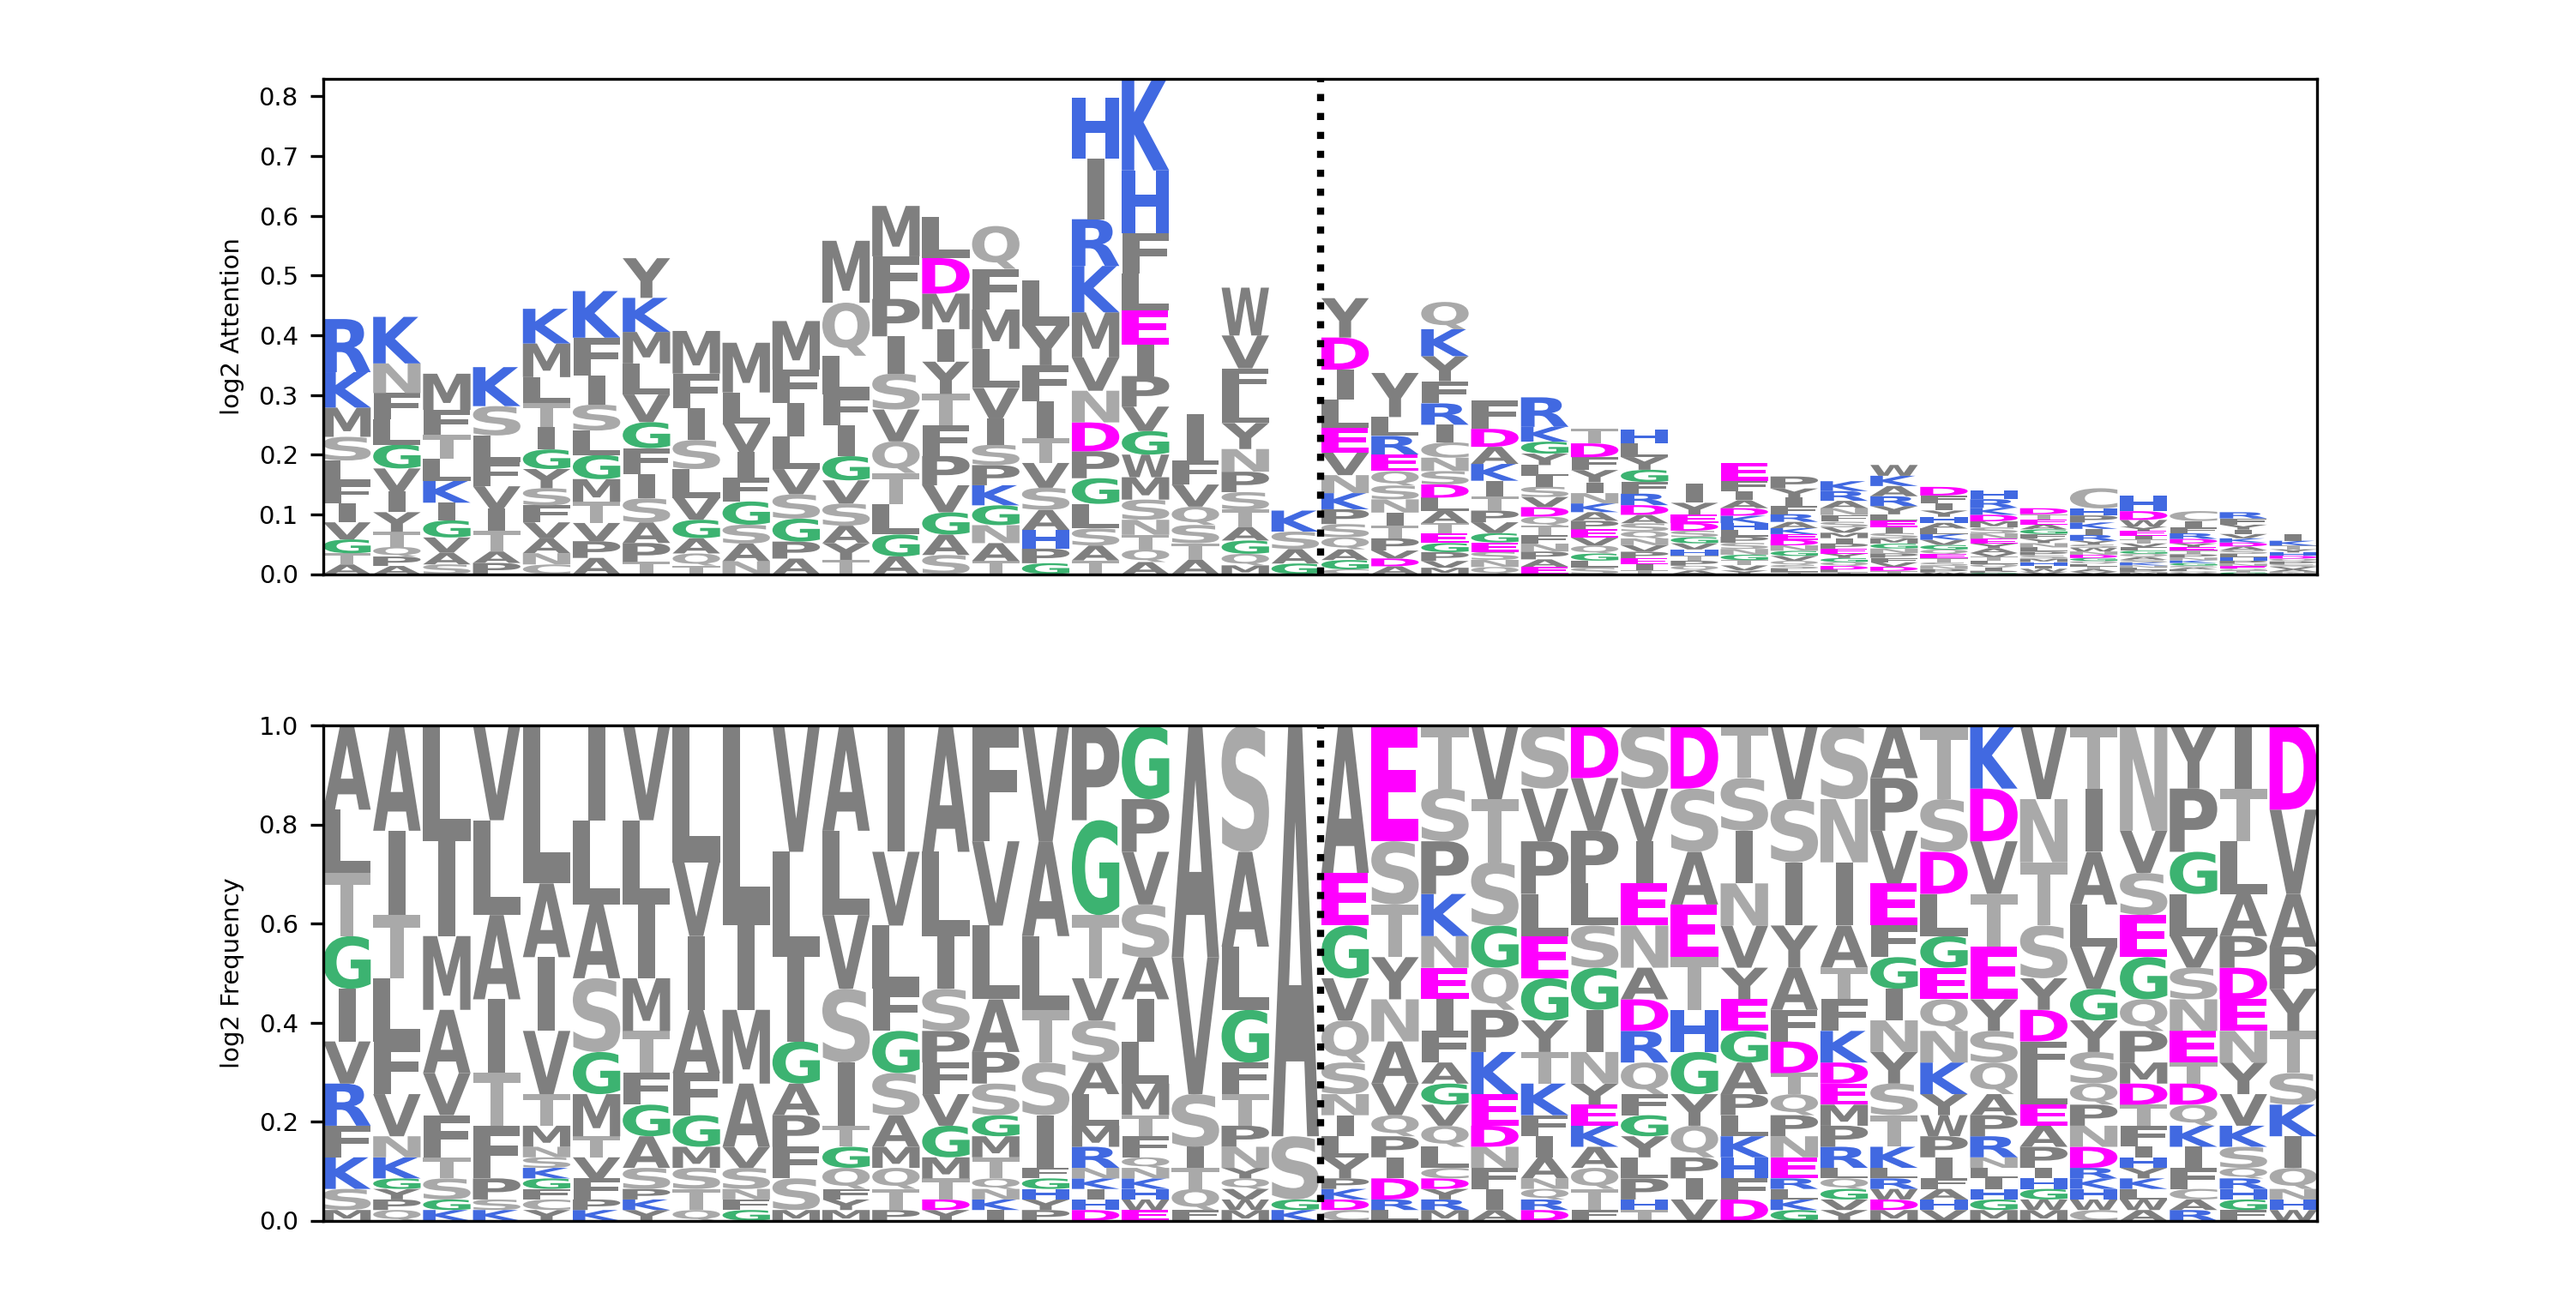
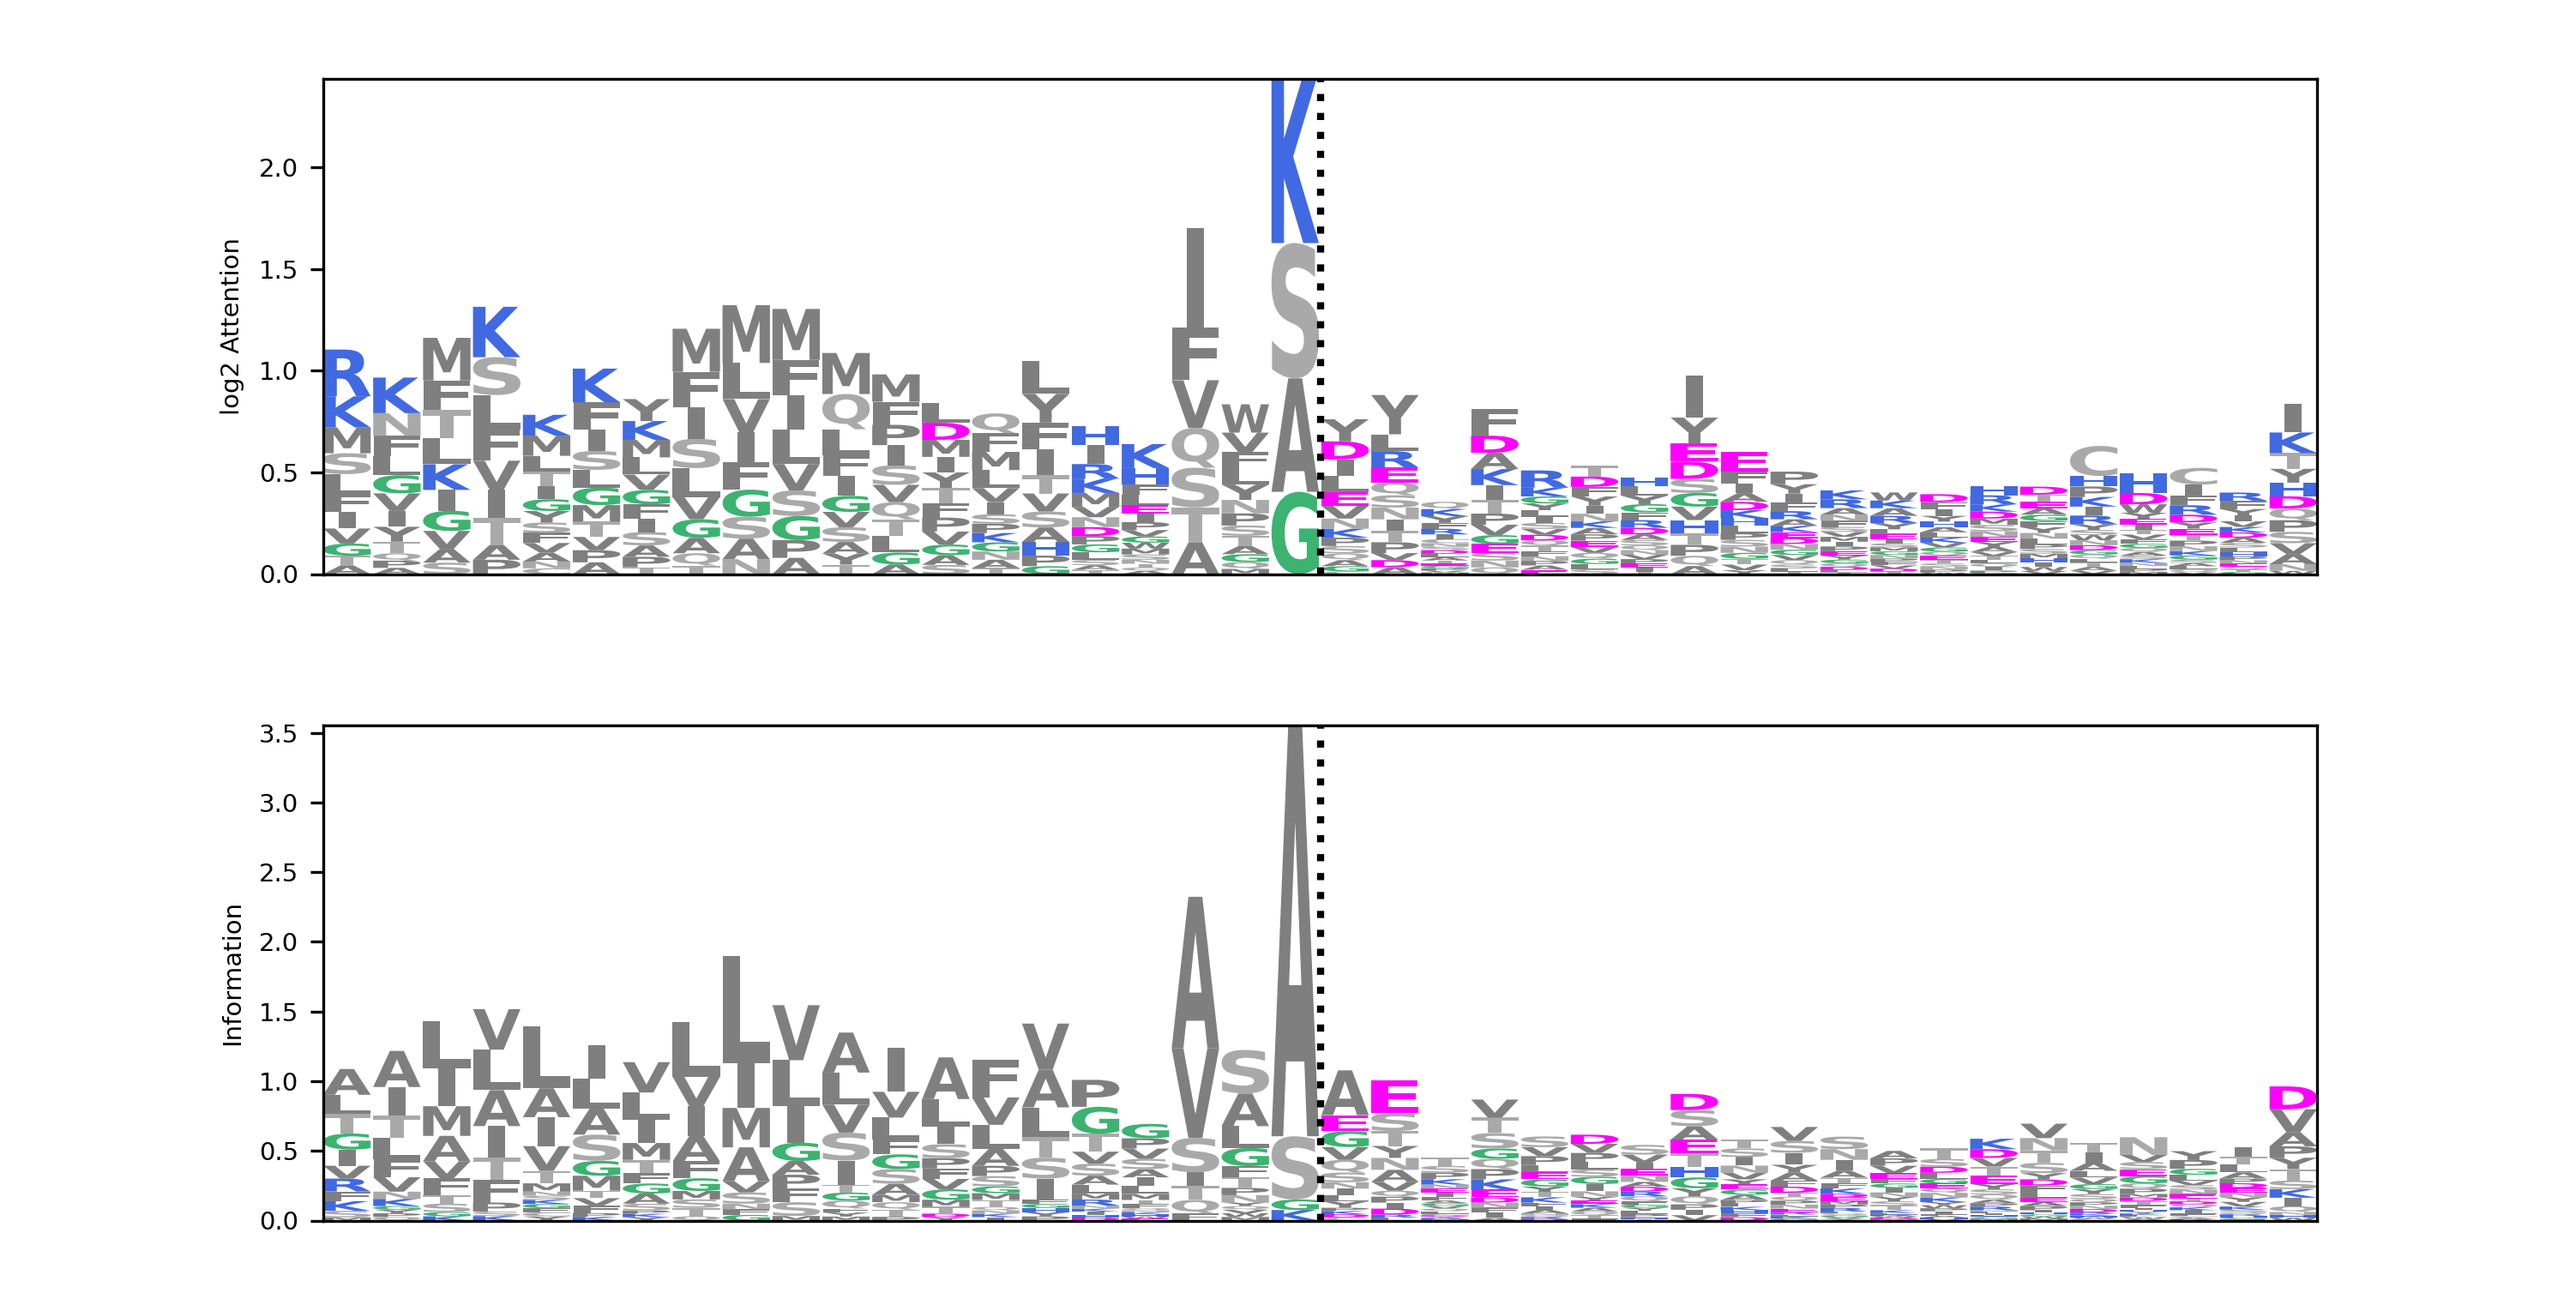
building seqlogos

Changed region(s): [[0.0619, 0.561, 0.8978, 0.9662], [0.0929, 0.0623, 0.8978, 0.4675], [0.0929, 0.187, 0.1238, 0.2182]]

diff --git a/signal/model/analyze/analyze_attention.py b/signal/model/analyze/analyze_attention.py
@@ -259,23 +259,24 @@ def get_kingdom_attention(seqs, true_types, true_annotations, pred_types,pred_an
             #TP
             plot_attention_matrix(ordered_type_enc_dec_attention_TP,type,kingdom,attention_dir+kingdom+'_enc_dec_attention_'+str(types[type])+'_TP_CS_area.png',figsize)
 
-            #Convert and save the sequences to build a logo
-            aa_freqs_type_TP = convert_TP_seqs(type_seqs_TP)
-            #Convert to df
-            aa_seq_df = pd.DataFrame(aa_freqs_type_TP,columns = [*AMINO_ACIDS.keys()])
-            #Transform
-            aa_seq_df =logomaker.transform_matrix(aa_seq_df,from_type='probability',to_type='information')
 
-            #Logo
-            fig,ax = plt.subplots(figsize=(figsize[0]/2.54,figsize[1]/2.54))
-            aa_logo = logomaker.Logo(aa_seq_df, color_scheme=AA_color_scheme)
-            plt.ylabel('log2 Frequency')
-            plt.xticks([])
+
+        #Convert and save the sequences to build a logo
+        aa_freqs_type_TP = convert_TP_seqs(type_seqs_TP)
+        #Convert to df
+        aa_seq_df = pd.DataFrame(aa_freqs_type_TP,columns = [*AMINO_ACIDS.keys()])
+        #Transform
+        aa_seq_df =logomaker.transform_matrix(aa_seq_df,from_type='probability',to_type='information')
+
+        #Logo
+        fig,ax = plt.subplots(figsize=(figsize[0]/2.54,figsize[1]/2.54))
+        aa_logo = logomaker.Logo(aa_seq_df, color_scheme=AA_color_scheme)
+        plt.ylabel('Information')
+        plt.xticks([])
+        if type!='NO_SP':
             aa_logo.ax.axvline(19.5, color='k', linewidth=2, linestyle=':')
-            plt.savefig(attention_dir+kingdom+'_aa_seq_logo_'+str(types[type])+'.png',format='png',dpi=300)
-            plt.close()
-
-        continue
+        plt.savefig(attention_dir+kingdom+'_aa_seq_logo_'+str(types[type])+'.png',format='png',dpi=300)
+        plt.close()
 
         #Plot attention matrix
         #TP
@@ -315,6 +316,8 @@ def get_kingdom_attention(seqs, true_types, true_annotations, pred_types,pred_an
 
         #Convert to dfs
         aa_attention_df = pd.DataFrame(aa_attention,columns = [*AMINO_ACIDS.keys()])
+        #Transform
+        aa_attention_df =logomaker.transform_matrix(aa_attention_df,from_type='probability',to_type='information')
         annotation_attention = annotation_attention[::-1,:]
         annotation_attention_df = pd.DataFrame(annotation_attention,columns = [*annotation_conversion.keys()])
         #Logos
